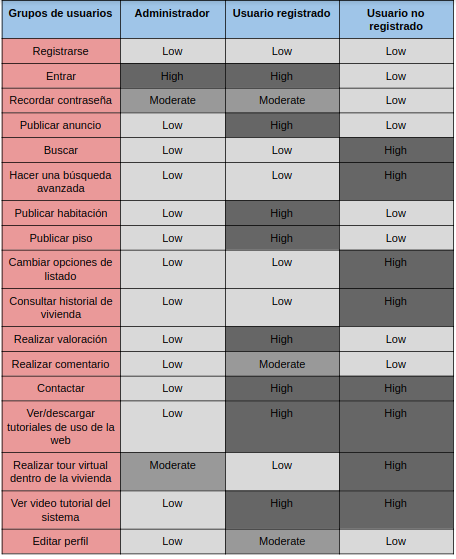
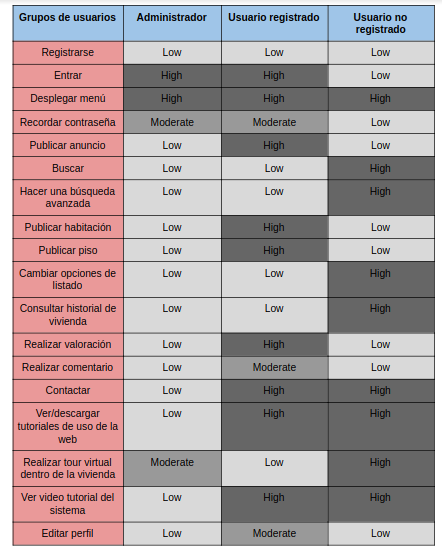
Añadida imagen matriz de tareas

diff --git a/P2/README.md b/P2/README.md
@@ -37,12 +37,6 @@ En nuestro caso, consideramos más adecuada la matriz de tareas pues permite vis
 ----
 
 
->>> Identificar términos para diálogo con usuario  
-
-Término | Significado     
-| ------------- | -------
-  Login¿?  | acceder a plataforma
-
 
 ![Método UX](../img/Wireframes.png) 2.d Wireframes
 -----
